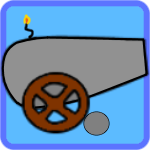
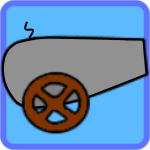
FPS tanked, debugging

Changed region(s): [[0.5333, 0.72, 0.7467, 0.9067], [0.1333, 0.08, 0.24, 0.2667]]

diff --git a/Plunder Planets/src/gameobjects/UpgradeMenuObject.cpp b/Plunder Planets/src/gameobjects/UpgradeMenuObject.cpp
@@ -556,6 +556,7 @@ void UpgradeMenuObject::CannonCheck(bool upgrade, bool undo)
 				m_cannonCheck[0] = true;
 				ShipStats::s_playerStats->IncreaseCannonDamage(1); //Increase Cannon Dmg/Spread/Quantity first time
 				ShipStats::s_playerStats->SetTreasure(-200);
+				m_cannonIcon->SetName("CannonIcon1");
 			}
 			else if (undo) //Doesn't need an if(undo), could just be else, but more clear what is happening this way
 			{
@@ -563,6 +564,8 @@ void UpgradeMenuObject::CannonCheck(bool upgrade, bool undo)
 				m_cannonCheck[0] = false;
 				ShipStats::s_playerStats->IncreaseCannonDamage(0); //Undo first upgrade
 				ShipStats::s_playerStats->SetTreasure(200);
+				m_cannonIcon->SetName("CannonIcon");
+
 			}
 		}
 		else if ((upgrade && m_cannonCheck[0] && !m_cannonCheck[1]) || (undo && !m_cannonCheck[2] && m_cannonCheck[1]))
@@ -573,6 +576,7 @@ void UpgradeMenuObject::CannonCheck(bool upgrade, bool undo)
 				m_cannonCheck[1] = true;
 				ShipStats::s_playerStats->IncreaseCannonDamage(2);//Increase Cannon Dmg/Spread/Quantity second time
 				ShipStats::s_playerStats->SetTreasure(-300);
+				m_cannonIcon->SetName("CannonIcon2");
 			}
 			else if (undo)
 			{
@@ -580,6 +584,7 @@ void UpgradeMenuObject::CannonCheck(bool upgrade, bool undo)
 				m_cannonCheck[1] = false;
 				ShipStats::s_playerStats->IncreaseCannonDamage(1);//Undo second upgrade
 				ShipStats::s_playerStats->SetTreasure(300);
+				m_cannonIcon->SetName("CannonIcon1");
 			}
 		}
 		else if ((upgrade && m_cannonCheck[1] && !m_cannonCheck[2]) || (undo && !m_cannonCheck[3] && m_cannonCheck[2]))
@@ -590,6 +595,7 @@ void UpgradeMenuObject::CannonCheck(bool upgrade, bool undo)
 				m_cannonCheck[2] = true;
 				ShipStats::s_playerStats->IncreaseCannonDamage(3);//Increase Cannon Dmg/Spread/Quantity third time
 				ShipStats::s_playerStats->SetTreasure(-500);
+				m_cannonIcon->SetName("CannonIcon3");
 			}
 			else if (undo)
 			{
@@ -597,6 +603,7 @@ void UpgradeMenuObject::CannonCheck(bool upgrade, bool undo)
 				m_cannonCheck[2] = false;
 				ShipStats::s_playerStats->IncreaseCannonDamage(2);//Undo third upgrade
 				ShipStats::s_playerStats->SetTreasure(500);
+				m_cannonIcon->SetName("CannonIcon2");
 			}
 		}
 		else if ((upgrade && m_cannonCheck[2] && !m_cannonCheck[3]) || (undo && !m_cannonCheck[4] && m_cannonCheck[3]))
@@ -607,6 +614,7 @@ void UpgradeMenuObject::CannonCheck(bool upgrade, bool undo)
 				m_cannonCheck[3] = true;
 				ShipStats::s_playerStats->IncreaseCannonDamage(4);//Increase Cannon Dmg/Spread/Quantity fourth time
 				ShipStats::s_playerStats->SetTreasure(-750);
+				m_cannonIcon->SetName("CannonIcon4");
 			}
 			else if (undo)
 			{
@@ -614,6 +622,7 @@ void UpgradeMenuObject::CannonCheck(bool upgrade, bool undo)
 				m_cannonCheck[3] = false;
 				ShipStats::s_playerStats->IncreaseCannonDamage(3);//Undo fourth upgrade
 				ShipStats::s_playerStats->SetTreasure(750);
+				m_cannonIcon->SetName("CannonIcon3");
 			}
 		}
 		else if ((upgrade && m_cannonCheck[3] && !m_cannonCheck[4]) || (undo && m_cannonCheck[4]))
@@ -624,6 +633,7 @@ void UpgradeMenuObject::CannonCheck(bool upgrade, bool undo)
 				m_cannonCheck[4] = true;
 				ShipStats::s_playerStats->IncreaseCannonDamage(5);//Increase Cannon Dmg/Spread/Quantity fifth time
 				ShipStats::s_playerStats->SetTreasure(-1000);
+				m_cannonIcon->SetName("CannonIcon5");
 				//Shoot double projectiles
 			}
 			else if (undo)
@@ -632,6 +642,7 @@ void UpgradeMenuObject::CannonCheck(bool upgrade, bool undo)
 				m_cannonCheck[4] = false;
 				ShipStats::s_playerStats->IncreaseCannonDamage(4);//Undo fifth upgrade
 				ShipStats::s_playerStats->SetTreasure(1000);
+				m_cannonIcon->SetName("CannonIcon4");
 			}
 		}
 	}
@@ -649,6 +660,7 @@ void UpgradeMenuObject::MovementCheck(bool upgrade, bool undo)
 				m_movementCheck[0] = true;
 				ShipStats::s_playerStats->IncreaseSpeed(1);//Increase movement speed first time
 				ShipStats::s_playerStats->SetTreasure(-200);
+				m_movementIcon->SetName("MovementIcon1");
 			}
 			if (undo)
 			{
@@ -656,6 +668,7 @@ void UpgradeMenuObject::MovementCheck(bool upgrade, bool undo)
 				m_movementCheck[0] = false;
 				ShipStats::s_playerStats->IncreaseSpeed(0);//Undo first movement upgrade
 				ShipStats::s_playerStats->SetTreasure(200);
+				m_movementIcon->SetName("MovementIcon");
 			}
 		}
 		else if ((upgrade && m_movementCheck[0] && !m_movementCheck[1]) || (undo && !m_movementCheck[2] && m_movementCheck[1]))
@@ -666,6 +679,7 @@ void UpgradeMenuObject::MovementCheck(bool upgrade, bool undo)
 				m_movementCheck[1] = true;
 				ShipStats::s_playerStats->IncreaseSpeed(2);//Increase movement speed second time
 				ShipStats::s_playerStats->SetTreasure(-300);
+				m_movementIcon->SetName("MovementIcon2");
 			}
 			if (undo)
 			{
@@ -673,6 +687,7 @@ void UpgradeMenuObject::MovementCheck(bool upgrade, bool undo)
 				m_movementCheck[1] = false;
 				ShipStats::s_playerStats->IncreaseSpeed(1);//Undo second movement upgrade
 				ShipStats::s_playerStats->SetTreasure(300);
+				m_movementIcon->SetName("MovementIcon1");
 			}
 		}
 		else if ((upgrade && m_movementCheck[1] && !m_movementCheck[2]) || (undo && !m_movementCheck[3] && m_movementCheck[2]))
@@ -683,6 +698,7 @@ void UpgradeMenuObject::MovementCheck(bool upgrade, bool undo)
 				m_movementCheck[2] = true;
 				ShipStats::s_playerStats->IncreaseSpeed(3);//Increase movement speed third time
 				ShipStats::s_playerStats->SetTreasure(-500);
+				m_movementIcon->SetName("MovementIcon3");
 			}
 			if (undo)
 			{
@@ -690,6 +706,7 @@ void UpgradeMenuObject::MovementCheck(bool upgrade, bool undo)
 				m_movementCheck[2] = false;
 				ShipStats::s_playerStats->IncreaseSpeed(2);//Undo third movement upgrade
 				ShipStats::s_playerStats->SetTreasure(500);
+				m_movementIcon->SetName("MovementIcon2");
 			}
 		}
 		else if ((upgrade && m_movementCheck[2] && !m_movementCheck[3]) || (undo && !m_movementCheck[4] && m_movementCheck[3]))
@@ -700,6 +717,7 @@ void UpgradeMenuObject::MovementCheck(bool upgrade, bool undo)
 				m_movementCheck[3] = true;
 				ShipStats::s_playerStats->IncreaseSpeed(4);//Increase movement speed fourth time
 				ShipStats::s_playerStats->SetTreasure(-750);
+				m_movementIcon->SetName("MovementIcon4");
 			}
 			if (undo)
 			{
@@ -707,6 +725,7 @@ void UpgradeMenuObject::MovementCheck(bool upgrade, bool undo)
 				m_movementCheck[3] = false;
 				ShipStats::s_playerStats->IncreaseSpeed(3);//Undo fourth movement upgrade
 				ShipStats::s_playerStats->SetTreasure(750);
+				m_movementIcon->SetName("MovementIcon3");
 			}
 		}
 		else if ((upgrade && m_movementCheck[3] && !m_movementCheck[4]) || (undo && m_movementCheck[4] && m_movementCheck[4]))
@@ -717,6 +736,7 @@ void UpgradeMenuObject::MovementCheck(bool upgrade, bool undo)
 				m_movementCheck[4] = true;
 				ShipStats::s_playerStats->IncreaseSpeed(5);//Increase movement speed fifth time
 				ShipStats::s_playerStats->SetTreasure(-1000);
+				m_movementIcon->SetName("MovementIcon5");
 			}
 			if (undo)
 			{
@@ -724,6 +744,7 @@ void UpgradeMenuObject::MovementCheck(bool upgrade, bool undo)
 				m_movementCheck[4] = false;
 				ShipStats::s_playerStats->IncreaseSpeed(4);//Undo fifth movement upgrade
 				ShipStats::s_playerStats->SetTreasure(1000);
+				m_movementIcon->SetName("MovementIcon4");
 			}
 		}
 	}

diff --git a/Plunder Planets/src/scenes/UpgradeScene.h b/Plunder Planets/src/scenes/UpgradeScene.h
@@ -25,7 +25,17 @@ public:
 			thomas::graphics::Sprite::LoadTexture("PlunderIcon", "../res/GUI/upgrade/icon.png");
 			thomas::graphics::Sprite::LoadTexture("UpgradeMenuExit", "../res/GUI/menu/exit.png");
 			thomas::graphics::Sprite::LoadTexture("UpgradeMenuBackground", "../res/GUI/upgrade/background.jpg");
-
+			//Upgrade icons
+			thomas::graphics::Sprite::LoadTexture("CannonIcon1", "../res/GUI/upgrade/cannon1.png");
+			thomas::graphics::Sprite::LoadTexture("CannonIcon2", "../res/GUI/upgrade/cannon2.png");
+			thomas::graphics::Sprite::LoadTexture("CannonIcon3", "../res/GUI/upgrade/cannon3.png");
+			thomas::graphics::Sprite::LoadTexture("CannonIcon4", "../res/GUI/upgrade/cannon4.png");
+			thomas::graphics::Sprite::LoadTexture("CannonIcon5", "../res/GUI/upgrade/cannon5.png");
+			thomas::graphics::Sprite::LoadTexture("MovementIcon1", "../res/GUI/upgrade/speed1.png");
+			thomas::graphics::Sprite::LoadTexture("MovementIcon2", "../res/GUI/upgrade/speed2.png");
+			thomas::graphics::Sprite::LoadTexture("MovementIcon3", "../res/GUI/upgrade/speed3.png");
+			thomas::graphics::Sprite::LoadTexture("MovementIcon4", "../res/GUI/upgrade/speed4.png");
+			thomas::graphics::Sprite::LoadTexture("MovementIcon5", "../res/GUI/upgrade/speed5.png");
 		}
 		else if (thomas::Window::GetAspectRatio() == thomas::Window::Ratio::STANDARD_1610) //FIX FITTING LATER
 		{
